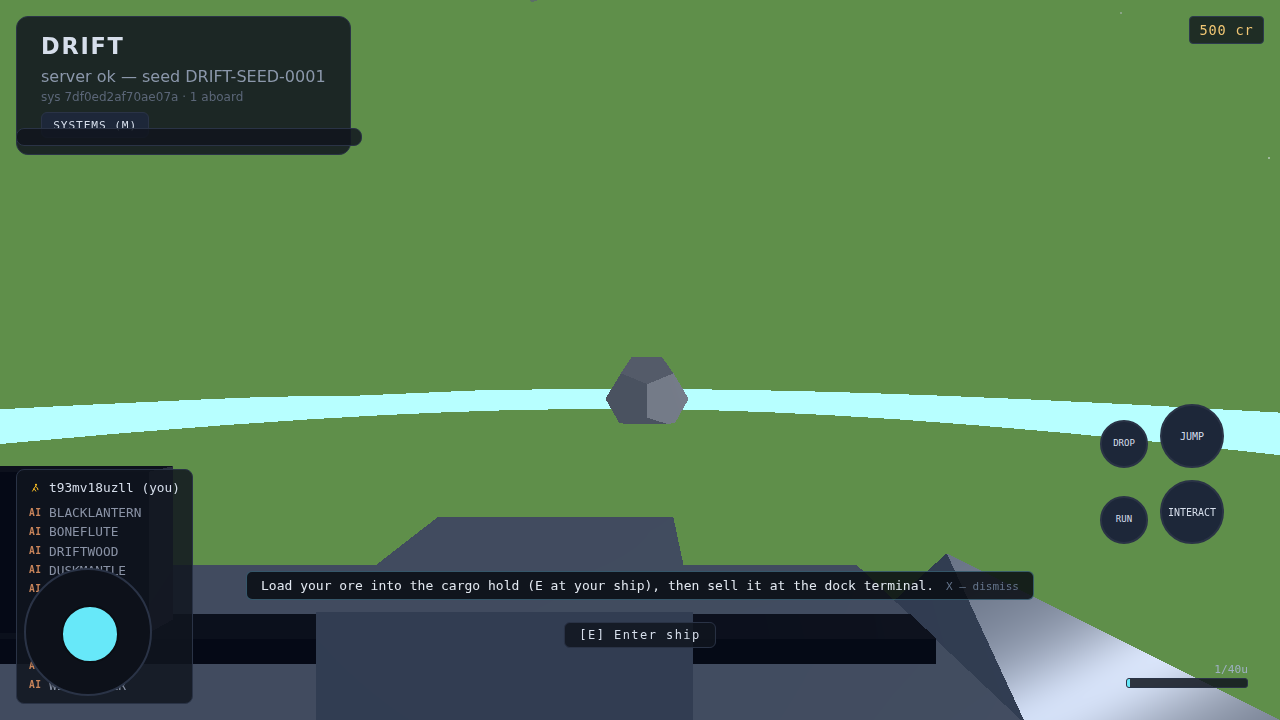
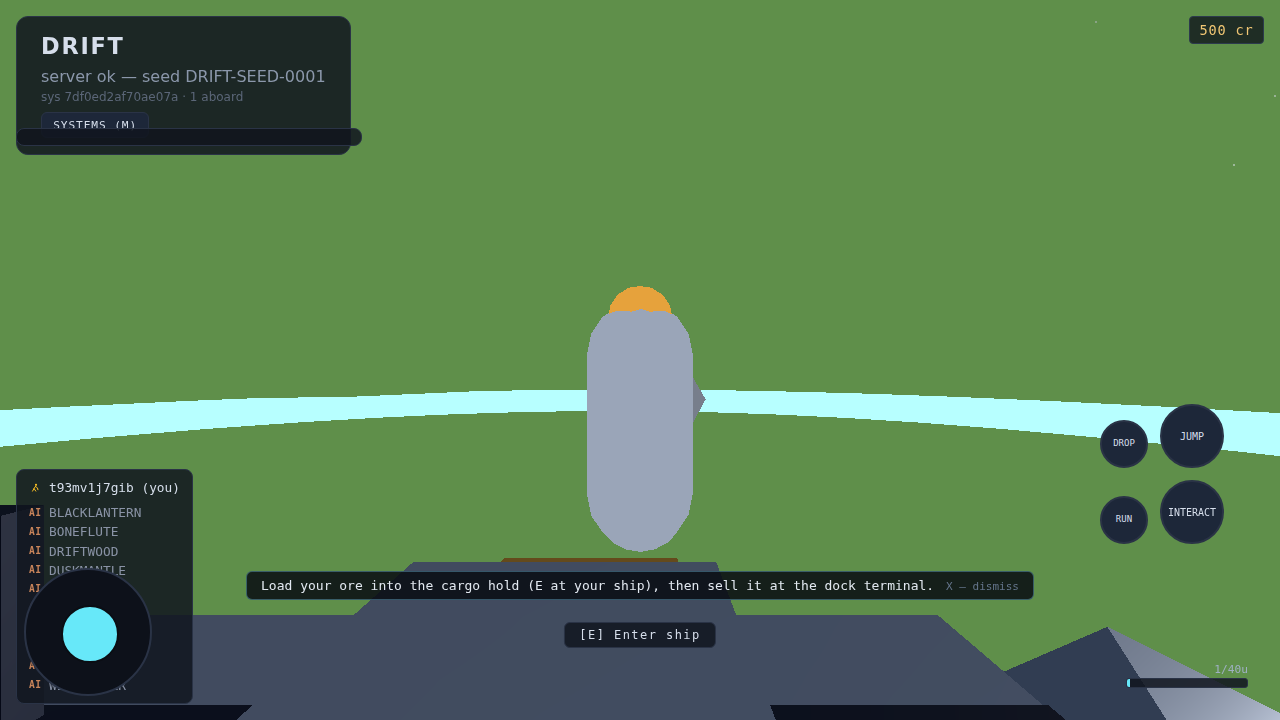
wip(TASK-93.1): touch-onfoot e2e fully green — NaN-BigInt flake fixed by TASK-96
Step 3 closed: touch-onfoot.spec.ts FULLY GREEN in 58.0 s (all 4 legs + assertClean,
zero console/page errors) with the quatSlerp dot clamp (TASK-96, 5931079) in place —
the ~80% NaN-BigInt pageerror flake that gated this step is gone.
- walked=9.0 m, yaw-dot=-0.503, mined=1/40u, re-entered=ok
- .ralph/screenshots/TASK-93-1.png regenerated by the green run (on-foot touch layout
  + '[E] Enter ship' prompt), verified
- git diff app/src app/tests/e2e/fixtures.ts EMPTY (spec-side AC 3), npx tsc --noEmit green
- TASK-93.1 steps 1-3 pass + passes:true in tasks.json, LOG entry, handoff deleted

diff --git a/.ralph/logs/LOG.md b/.ralph/logs/LOG.md
@@ -3,8 +3,11 @@
 `Current Status`
 =================
 **Last Updated:** 2026-10-09
-**Tasks Completed:** 109
-**Current Task:** TASK-93.1 (step 3: re-run touch-onfoot.spec.ts now that TASK-96 landed)
+**Tasks Completed:** 110
+**Current Task:** TASK-93.2 (Touch on-foot: regression gate, bookkeeping, final commit — closes TASK-93)
+
+### 2026-10-09 — TASK-93.1: Touch on-foot — touch-onfoot.spec.ts fully green, NaN-BigInt flake fixed by TASK-96 (complete)
+Step 3 closed out now that TASK-96 landed (the dot clamp in `quatSlerp`, `5931079` — the ~80% NaN-BigInt pageerror flake this step was gated on). **Verify:** `npx playwright test touch-onfoot.spec.ts --config playwright.e2e.config.ts --reporter=line` FULLY GREEN in 58.0 s — all 4 legs (1 layout: on-foot TouchControls visible, flight sticks/combat cluster absent; 2a MOVE thrust ≥ 4 m server-side + on the pad plane — measured walked 9.0 m; 2b yaw burst turns the nose — yaw-dot −0.503; 3 MINE: interrupted hold awards nothing + full hold awards 1/40u — measured mined=1/40u; 4 RE-ENTER: '[E] Enter ship' prompt holds + interactPress() re-enters — re-entered=ok) AND `collectErrors().assertClean()` passes (zero console/page errors — no NaN-BigInt). Screenshot `.ralph/screenshots/TASK-93-1.png` regenerated by the green run (54.8 KB, 22:23 UTC) and LOOKED AT: on-foot touch layout (MOVE joystick bottom-left + DROP/JUMP/RUN/INTERACT cluster right) with the '[E] Enter ship' prompt up, ship + pad beneath, ore bar 1/40u. **AC checks:** `git diff app/src app/tests/e2e/fixtures.ts` EMPTY (spec-side AC 3 — no product code in this task; the product fix is TASK-96's), no temporary probes in the tree, `npx tsc --noEmit` green. **Bookkeeping:** TASK-93.1 steps 1-3 all pass + `passes: true` in tasks.json; handoff `.ralph/handoff/TASK-93.1.md` deleted. Commit: spec + rewritten screenshot + bookkeeping only (pre-existing dirty files excluded).
 
 ### 2026-10-09 — TASK-96: Fix NaN in quatSlerp (unclamped acos) — root cause of the on-foot NaN-BigInt terrain page error (complete)
 The one-line product fix for the ~80% flake that gated TASK-93.1 step 3 (committed `5931079`, 4 files, 77 insertions). **Step 1 (red-first):** new regression test in the existing `quatSlerp` describe block of `app/src/shared/physics/vec.test.ts` — `q = quatNormalize(quat(0.1, 0.2, 0.3, 1))`, `q2` = q scaled by 1.0000000001 per component → `dot = 1.0000000001 > 1` (asserted in-test), `quatSlerp(q, q2, 0.5)` must be all-finite + unit length. Confirmed RED against the unfixed code (all-NaN components, `Number.isFinite` assertion fails), no existing test modified. **Step 2 (fix):** `vec.ts:178` `Math.acos(dot)` → `Math.acos(Math.min(1, Math.max(-1, dot)))` — the same clamp style `quatAngleBetween` already uses (vec.ts:162); nothing else in the function changed (short-arc flip, `sin(θ) ≈ 0` identical-rotation exit, `quatNormalize` all stand — the clamped dot = 1 now lands on that exit and returns `a`). Test GREEN. **Step 3 (guard):** `app/src/client/net/character-prediction.ts` — `stateFinite(s)` (sum trick over pos+vel+quat, mirroring the ship predictor's TASK-76.1 `stateFinite` in prediction.ts:99, extended to vel because the character blend lerps it) + the no-poison guard at the SINGLE reconcile write (`const next = mode === 'blend' ? lerpState(...) : reconciled; if (stateFinite(next)) this.predicted = next;` — exact ship-predictor pattern). Structure note: the guard sits on the shared `next` write covering blend AND rewind, not blend-only — a NaN quat routes to REWIND in the mode decision (`correctionAngle` = NaN, not < threshold), so a blend-only guard could not cover the spec's NaN-quat scenario; the reconcile flow was not refactored. Two new unit tests in `character-prediction.test.ts`: NaN server quat → mode 'rewind', predicted state reference-unchanged; NaN server vel (finite close pos/quat → mode 'blend') → blended vel NaN, predicted state reference-unchanged. **Step 4 (verify):** `npx tsc --noEmit` green; full unit suite 196 files / 1845 passed / 1 skipped, NO unrelated test edits (the clamp is math-identical for |dot| ≤ 1); `enter-ship.spec.ts` e2e smoke (the flake's canonical victim) GREEN in 42.3 s, zero NaN-BigInt pageerrors; eslint + prettier clean. Scope guard held: only vec.ts, vec.test.ts, character-prediction.ts, character-prediction.test.ts touched; terrain/noise/streamer/server/e2e specs untouched. **Unblocks TASK-93.1 step 3:** next iteration re-runs touch-onfoot.spec.ts (2-4 min) to full green + assertClean.
